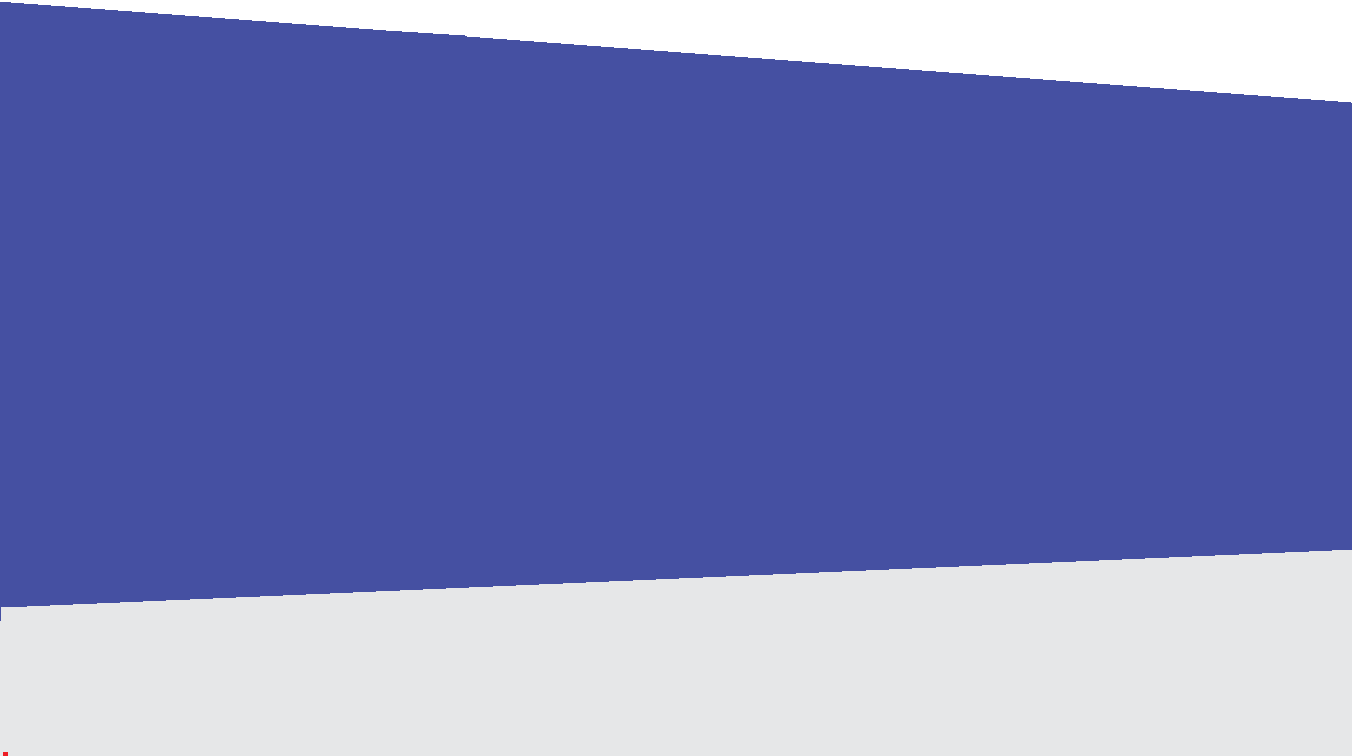
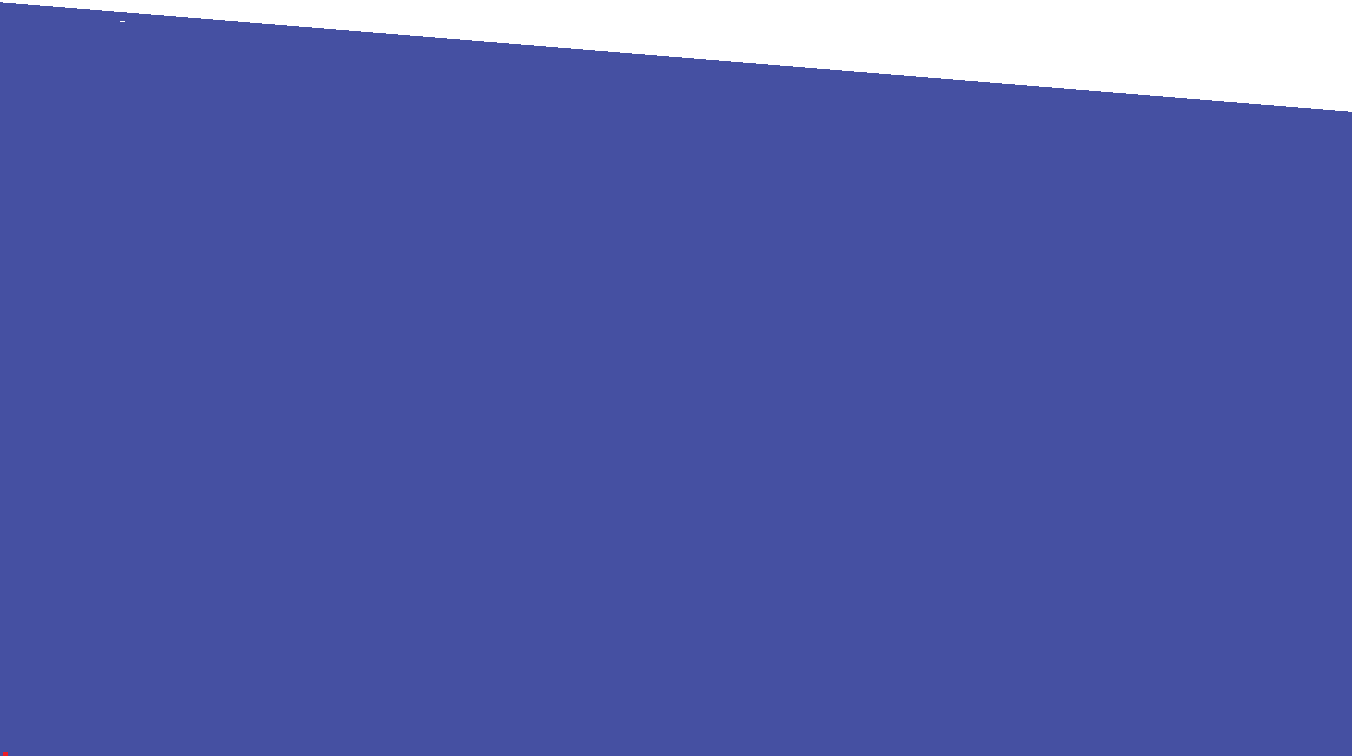
nwe Landing

Changed region(s): [[0.0, 0.7302, 1.0, 1.0], [0.4349, 0.0608, 1.0, 0.1521], [0.2175, 0.0304, 0.4038, 0.0608]]

diff --git a/components/newLanding/Features.vue b/components/newLanding/Features.vue
@@ -2,7 +2,7 @@
   <div class="colDiv">
     <div class="rowDiv w-full">
       <div class="colDiv">
-        <img class="w-1/2 ml-auto mr-auto" src="../../assets/halyab/001-4.png" alt />
+        <img class="w-1/4 ml-auto mr-auto" src="../../assets/halyab/001-4.png" alt />
         <p style="color:#00a0bd" class="text-center ml-auto mr-auto">پرداخت آسان</p>
         <p style="direction: rtl;" class="text-center ml-auto mr-auto">
           پرداخت آنلاین از طریق کلیه کارت های عضو شتاب
@@ -10,18 +10,18 @@
         </p>
       </div>
       <div class="colDiv">
-        <img class="w-1/2 ml-auto mr-auto" src="../../assets/halyab/001-3.png" alt />
-        <p style="color:#00a0bd" class="text-center ml-auto mr-auto">امنیت و اعتماد</p>
+        <img class="w-1/5  ml-auto mr-auto " src="../../assets/halyab/001-3.png" alt />
+        <p style="color:#00a0bd" class="text-center  ml-auto mr-auto">امنیت و اعتماد</p>
         <p style="direction: rtl;" class="text-center ml-auto mr-auto">
           حل یاب برای اطمینان و اعتماد سازی در مورد خدمات
           <br />خود برای اولین بار سیستم داوری را درون پلتفرم خود
-          <br />قرار داده است
+          قرار داده است
         </p>
       </div>
     </div>
     <div class="rowDiv w-full">
       <div class="colDiv">
-        <img class="w-1/2 mt-8 ml-auto mr-auto" src="../../assets/halyab/001-2.png" alt />
+        <img class="w-1/4 mt-8 ml-auto mr-auto" src="../../assets/halyab/001-2.png" alt />
         <p style="color:#00a0bd" class="text-center ml-auto mr-auto">رفع اشکال آنلاین</p>
         <p style="direction: rtl;" class="text-center ml-auto mr-auto">
           حل یاب اولین سرویس ارائه خدمات آنلاین رفع اشکال با
@@ -30,7 +30,7 @@
         </p>
       </div>
       <div class="colDiv">
-        <img class="w-1/2 ml-auto mr-auto" src="../../assets/halyab/001-2.png" alt />
+        <img class="w-1/4 ml-auto mr-auto" src="../../assets/halyab/001-2.png" alt />
         <p style="color:#00a0bd" class="text-center ml-auto mr-auto">مجرب ترین اساتید</p>
         <p style="direction: rtl;" class="text-center ml-auto mr-auto">
           اساتید حل یاب از دانش آموختگان معتبرترین دانشگاه های

diff --git a/components/newLanding/Introduction.vue b/components/newLanding/Introduction.vue
@@ -7,27 +7,27 @@
         </div>
         <div class="sm:w-2/3" style="marginTop:50px">
           <h6
-            style="direction: rtl;  wordSpacing: 2px;"
+            style="direction: rtl"
             class="flex justify-center text-2xl mt-3 mb-5 font-bold items-center text-center text-xl"
             href="#"
           >کیــفیت بــالا ، مدیریــت زمــان ، هزیــنه کمتــر!!</h6>
           <p style="direction: rtl;" class="text-center mt- w-75 pl-2 pr-2">
-            برای درخواست معلم خصوصی آنلاین و پروژه های درسی و دانشجویی
-            <br />می توانید در پلتفرم حل یاب ، مدرسین تایید شده را پیدا کرده
-            <br />و با تضمین کیفیت خدمات با اطمینان پروژه خود را ثبت کنید
+            برای درخواســت معلم خصوصی آنــلاین و پروژه های درسی و دانشجویی
+            <br />  می توانید در پلتفرم حل یاب ، مدرسین تایید شده را پیدا کرده و با تضمین
+            <br /> کیفیت خدمات با اطمینان پروژه خود را ثبت کنید
           </p>
           <div class="mt-5 text-center statusdiv">
             <nuxt-link to="/auth/register">
               <button
                 type="button"
-                class="bg-black shadow px-4 py-3 text-xl hover:font-bold text-white rounded focus:outline-none focus:shadow-outline"
+                class="bg-black shadow px-4 py-2 text-sm hover:font-bold text-white rounded focus:outline-none focus:shadow-outline"
               >ثبـت نـام در حل یـاب</button>
             </nuxt-link>
             <nuxt-link to="/auth/login">
               <button
                 style="color:#00a0bd"
                 type="button"
-                class="mt-3 px-3 pt-2 text-xl font-bold rounded focus:outline-none focus:shadow-outline"
+                class="mt-3 px-3 pt-2  font-bold rounded focus:outline-none focus:shadow-outline"
               >ورود به حساب کاربری</button>
             </nuxt-link>
           </div>

diff --git a/components/newLanding/App.vue b/components/newLanding/App.vue
@@ -1,11 +1,12 @@
 <template>
-  <div class="rowdiv " style="height:40vh">
+  <div class="rowdiv bg" style="height:40vh">
+    <div class="mos1"></div>
     <div class="imgdiv hidden sm:flex justify-end items-center w-1/3">
-      <img class="mt-20" src="../../assets/halyab/mobile-07.png" alt="عکس موبایل " />
+      <img class="mt-20 z-0" src="../../assets/halyab/mobile-07.png" alt="عکس موبایل " />
     </div>
 
     <div class="textdiv sm:w-2/3 w-full">
-      <p style="direction: rtl;" class="text-center mt-10  mt- w-75 ml-auto mr-auto">
+      <p style="direction: rtl;" class="text-center mt-10 mt- w-75 ml-auto mr-auto">
         همین الان با اپلیکیشن حل یاب به راحتی بر روی تلفن همراه
         <br />سوال و پروژه خود را به اساتید مجرب حل یاب بسپارید
       </p>
@@ -14,7 +15,7 @@
           <div>
             <a href="https://cafebazaar.ir/app/com.halyab.halyab">
               <img
-                class="sm:w-5/6  p-1 cursor-pointer"
+                class="sm:w-5/6 p-1 cursor-pointer"
                 src="~/assets/img/bazzar.png"
                 alt="کافه بازار"
               />
@@ -55,5 +56,15 @@
   justify-content: center;
   align-content: center;
   text-align: center;
+}
+.mos1 {
+  position: absolute;
+  width: 0;
+  height: 0;
+  border-left: 98.8vmax solid transparent;
+  border-top: 20px solid #1251a4;
+}
+.bg {
+  position: relative;
 }
 </style>

diff --git a/components/newLanding/Services.vue b/components/newLanding/Services.vue
@@ -1,9 +1,10 @@
 <template>
-  <div class="div1 bg pb-20">
+  <div class="div1 bg bg-primary pb-20">
+    <div class="mos text-primary"></div>
     <div class="div2" style="width:100%">
       <h2
         style="marginTop:-4%"
-        class="text-xl font-bold text-white pt-5 pb-5 sm:pt-20 text-center w-full"
+        class="text-xl font-bold text-white mt-5 pt-5 pb-5 sm:pt-20 text-center w-full"
       >خدمات حل یاب</h2>
 
       <div class="div1">
@@ -63,7 +64,7 @@
         <nuxt-link to="/auth/register">
           <button
             type="button"
-            class="bg-white rounded-md px-16 py-2 shadow-md mb-4 text-black hover:shadow-xl"
+            class="bg-white rounded-md px-16 py-2 shadow-md mb-4 text-black shadow-xl"
           >+ ثبت پروژه</button>
         </nuxt-link>
       </div>
@@ -85,11 +86,19 @@
   display: flex;
   flex-direction: column;
   justify-content: center;
-  width: 30%;
+  width: 20%;
   margin-left: 2%;
   margin-right: 2%;
 }
 .bg {
-  background-image: url(../../assets/halyab/bg.png);
+  position: relative;
+}
+.mos {
+  position: absolute;
+  width: 100%;
+  height: 0;
+  border-right: 98.8vmax solid white;
+  border-bottom: 40px solid;
+  border-top: 100% solid transparent;
 }
 </style>
